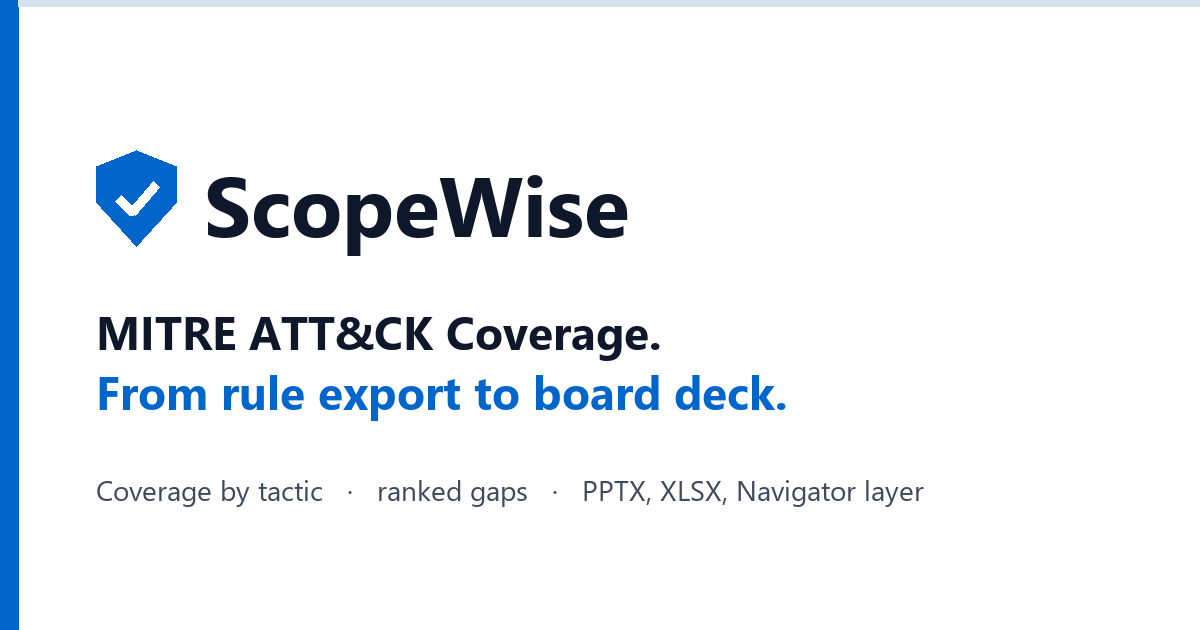
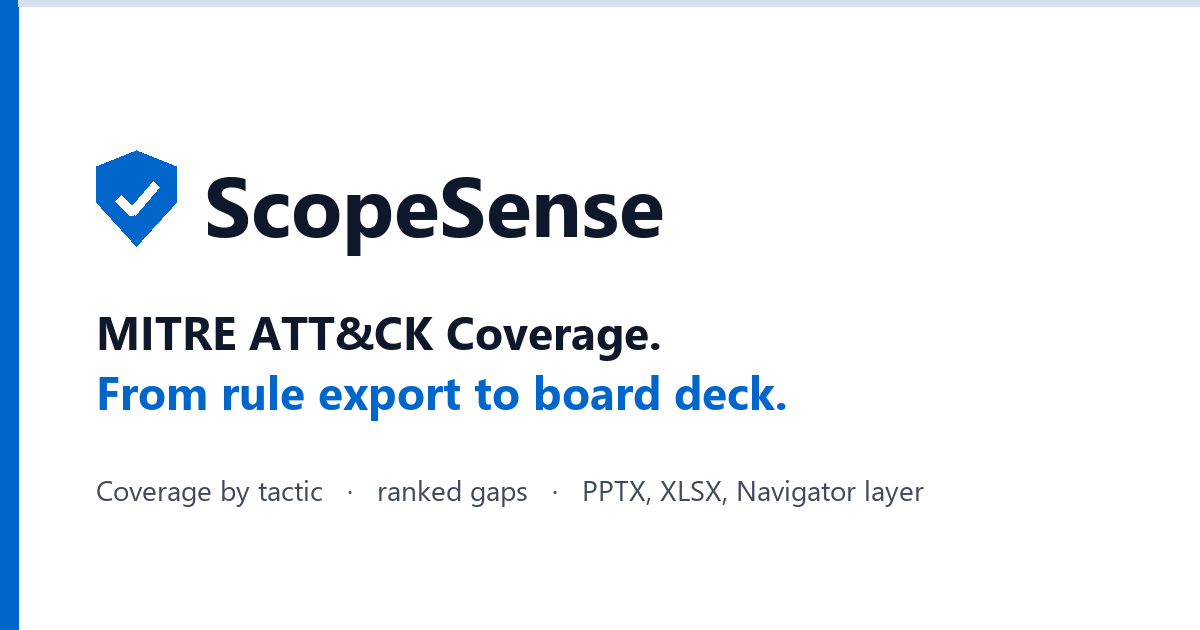
Regenerate templates, Sentinel workbook text and OG images as ScopeSense

Changed region(s): [[0.37, 0.2714, 0.555, 0.3921]]

diff --git a/scripts/generate_templates.py b/scripts/generate_templates.py
@@ -46,7 +46,7 @@ def build_pdf() -> Path:
     path = OUT / "sow-review-checklist.pdf"
     doc = SimpleDocTemplate(
         str(path), pagesize=A4, leftMargin=18 * mm, rightMargin=18 * mm, topMargin=18 * mm, bottomMargin=18 * mm,
-        title="SOW review checklist", author="ScopeWise", subject="Ten-point pre-signature Statement of Work checklist",
+        title="SOW review checklist", author="ScopeSense", subject="Ten-point pre-signature Statement of Work checklist",
     )
     ss = getSampleStyleSheet()
     h1 = ParagraphStyle("h1", parent=ss["Title"], fontSize=20, alignment=0, spaceAfter=4, textColor="#0F172A")
@@ -69,8 +69,8 @@ def build_pdf() -> Path:
             story.append(Paragraph(why, note))
     story.append(Spacer(1, 6))
     story.append(Paragraph(
-        "ScopeWise runs this checklist, plus a deterministic rule engine and six specialist reviewers, on every uploaded SOW or RFP and quotes the clause behind each finding. "
-        "https://scopewise.assessiq.in/product/sow-review &nbsp;&middot;&nbsp; This checklist is guidance, not legal advice.", foot))
+        "ScopeSense runs this checklist, plus a deterministic rule engine and six specialist reviewers, on every uploaded SOW or RFP and quotes the clause behind each finding. "
+        "https://scopesense.in/product/sow-review &nbsp;&middot;&nbsp; This checklist is guidance, not legal advice.", foot))
     doc.build(story)
     return path
 
@@ -102,7 +102,7 @@ def build_xlsx() -> Path:
     ws.title = "Read Me"
     ws.column_dimensions["A"].width = 100
     for line in (
-        "RFP evaluation criteria worksheet (ScopeWise)",
+        "RFP evaluation criteria worksheet (ScopeSense)",
         "",
         "Structure mirrors FAR Part 15 (contracting by negotiation): requirements, evaluation factors and weights, submission instructions, basis for award.",
         "1. Requirements: one row per requirement with an ID, so proposals can be scored against the same yardstick.",
@@ -110,7 +110,7 @@ def build_xlsx() -> Path:
         "3. Scoring: one column per bidder; score 0-5 per factor; the weighted total is computed for you.",
         "4. Basis for award: fill in the sentence that goes into the RFP (for example, highest weighted score, or lowest price technically acceptable).",
         "",
-        "This worksheet is guidance, not legal advice. https://scopewise.assessiq.in/use-cases/rfp-review",
+        "This worksheet is guidance, not legal advice. https://scopesense.in/use-cases/rfp-review",
     ):
         ws.append([line])
     ws["A1"].font = Font(bold=True, size=13)
@@ -141,7 +141,7 @@ def build_xlsx() -> Path:
     ):
         sub.append(list(row))
 
-    wb.properties.creator = "ScopeWise"
+    wb.properties.creator = "ScopeSense"
     wb.properties.title = "RFP evaluation criteria worksheet"
     wb.save(path)
     return path

diff --git a/scripts/generate_sentinel_workbook.py b/scripts/generate_sentinel_workbook.py
@@ -1,4 +1,4 @@
-"""Generate the ScopeWise Sentinel Content Hub workbook (Phase A of
+"""Generate the ScopeSense Sentinel Content Hub workbook (Phase A of
 docs/planning/SENTINEL_CONTENT_HUB_ADDON_PLAN.md).
 
 Reads the MITRE module's pinned data (apps/api/app/mitre/data/) and emits
@@ -60,7 +60,7 @@ COMPONENT_TABLES = {
     "Email": ["EmailEvents", "OfficeActivity"],
 }
 
-FULL_ASSESSMENT_URL = "https://scopewise.assessiq.in/mitre"
+FULL_ASSESSMENT_URL = "https://scopesense.in/mitre"
 
 
 def _kql_str(value) -> str:
@@ -299,7 +299,7 @@ def build(version, rows):
 
     # -- Overview -----------------------------------------------------------
     items.append(text(
-        f"# ScopeWise MITRE ATT&CK Coverage — honest view\n---\n"
+        f"# ScopeSense MITRE ATT&CK Coverage — honest view\n---\n"
         f"Your detection coverage against **MITRE ATT&CK v{version}** "
         f"({n_total} enterprise techniques and sub-techniques), computed from "
         f"the analytics rules actually running in this workspace.\n\n"
@@ -448,7 +448,7 @@ def build(version, rows):
     items.append(text(
         "## This workbook is the honest snapshot. The full assessment goes further.\n---\n"
         "The free view above only counts rules that carry explicit ATT&CK tags. "
-        f"The **[ScopeWise full assessment]({FULL_ASSESSMENT_URL})** adds:\n\n"
+        f"The **[ScopeSense full assessment]({FULL_ASSESSMENT_URL})** adds:\n\n"
         "- **Keyword + AI mapping** of the untagged majority of your rules — "
         "most environments' biggest blind spot\n"
         "- **Applicability filtering** — score against the techniques that apply "
@@ -461,7 +461,7 @@ def build(version, rows):
         "- **Multi-SIEM** — the same assessment against Splunk\n\n"
         "Setup is read-only: a service principal with the **Microsoft Sentinel "
         "Reader** role, five IDs, and one click. "
-        f"**[Start at scopewise.assessiq.in]({FULL_ASSESSMENT_URL})**.",
+        f"**[Start at scopesense.in]({FULL_ASSESSMENT_URL})**.",
         tab="FullAssessment", name="funnel"))
 
     return {

diff --git a/scripts/severity_calibration_run.py b/scripts/severity_calibration_run.py
@@ -5,7 +5,7 @@ build the SME worksheet pack.
     python scripts/severity_calibration_run.py --build   # builds the XLSX from raw/*.json
     python scripts/severity_calibration_run.py           # both
 
-OPENROUTER_API_KEY must be the ScopeWise key (the one in the VPS .env), never
+OPENROUTER_API_KEY must be the ScopeSense key (the one in the VPS .env), never
 the personal tooling key -- see memory `openrouter-key-identity`. Inject it
 per-process; this script never prints it. No product code is modified: the
 agent's OpenRouter adapter is wrapped at runtime only to capture usage and
@@ -288,7 +288,7 @@ def build_pack() -> Path:
         mode = max(counts, key=lambda k: (counts[k], SEVERITY_RANK[k]))
         sm.append([_guard(t), counts["critical"], counts["major"], counts["medium"], counts["low"], counts["info"], total, mode])
 
-    wb.properties.creator = "ScopeWise"
+    wb.properties.creator = "ScopeSense"
     wb.properties.title = "Legal severity calibration -- SME worksheet"
     out = OUT / f"LEGAL_SEVERITY_SME_PACK_{date}.xlsx"
     wb.save(out)
@@ -306,7 +306,7 @@ if __name__ == "__main__":
     if do_run:
         key = os.environ.get("OPENROUTER_API_KEY", "")
         if not key:
-            sys.exit("OPENROUTER_API_KEY not set (inject the ScopeWise key per-process)")
+            sys.exit("OPENROUTER_API_KEY not set (inject the ScopeSense key per-process)")
         asyncio.run(run_all(key))
     if do_build:
         build_pack()

diff --git a/scripts/generate_codereview_sample.py b/scripts/generate_codereview_sample.py
@@ -480,7 +480,7 @@ without needing a real vvaharness run or a real customer's scan results.
 Every finding, file path, credential-looking string, and CVSS vector in
 `acme_findings.json` / `acme_findings.sarif` is invented for this sample —
 none of it resembles or was derived from a real repository or a real
-ScopeWise customer's scan. `acme_run_manifest.json` is a matching synthetic
+ScopeSense customer's scan. `acme_run_manifest.json` is a matching synthetic
 `run_manifest_*.json` (model roles, token/cost totals).
 
 To try the upload path locally: sign in as an admin/reviewer, go to

diff --git a/scripts/generate_og_image.py b/scripts/generate_og_image.py
@@ -61,7 +61,7 @@ def render(name: str, line1: str, line2: str, subline: str) -> None:
     d.line([(sx + 22, sy + 48), (sx + 36, sy + 62), (sx + 60, sy + 34)], fill=BG, width=9, joint="curve")
 
     wordmark = _font(FONT_CANDIDATES, 84)
-    d.text((sx + 108, sy - 4), "ScopeWise", font=wordmark, fill=INK)
+    d.text((sx + 108, sy - 4), "ScopeSense", font=wordmark, fill=INK)
 
     tagline = _font(FONT_CANDIDATES, 46)
     d.text((sx, 300), line1, font=tagline, fill=INK)

diff --git a/scripts/build_attack_data.py b/scripts/build_attack_data.py
@@ -1,4 +1,4 @@
-"""Build the pinned, compact ATT&CK dataset for the ScopeWise MITRE module.
+"""Build the pinned, compact ATT&CK dataset for the ScopeSense MITRE module.
 
 Dev-run script — NEVER executed at app runtime. Downloads the official MITRE
 attack-stix-data bundles for the pinned release, compacts them to the shape

diff --git a/marketplace/sentinel/README.md b/marketplace/sentinel/README.md
@@ -1,4 +1,4 @@
-# ScopeWise MITRE Coverage — Sentinel workbook (Content Hub add-on, Phase A)
+# ScopeSense MITRE Coverage — Sentinel workbook (Content Hub add-on, Phase A)
 
 Plan: `docs/planning/SENTINEL_CONTENT_HUB_ADDON_PLAN.md`.
 
@@ -21,7 +21,7 @@ version upgrade.
 | Rule health | Enabled rules sorted by alert evidence (never-fired first), noisiest rules, disabled rules | `SecurityAlert` + ARM |
 | Telemetry | Required tables per ATT&CK data component vs. actual ingestion | `Usage` + embedded needs datatable |
 | Top gaps | Uncovered techniques ranked by curated prevalence tier | embedded priority datatable |
-| Full assessment | Funnel to the ScopeWise SaaS | markdown |
+| Full assessment | Funnel to the ScopeSense SaaS | markdown |
 
 ## Testing (needs a Sentinel workspace)
 
